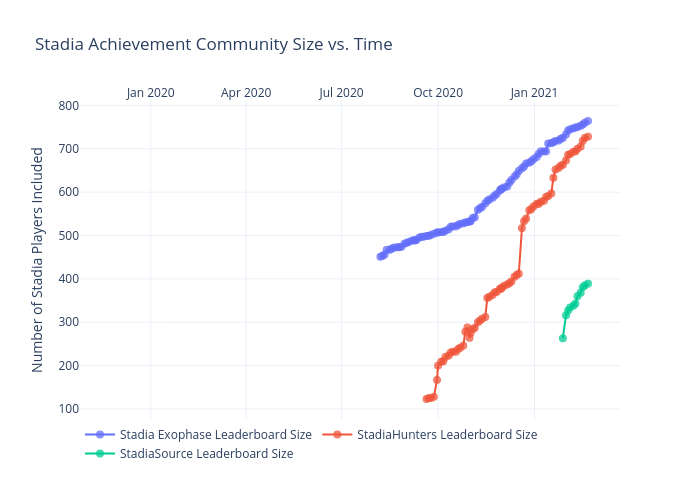
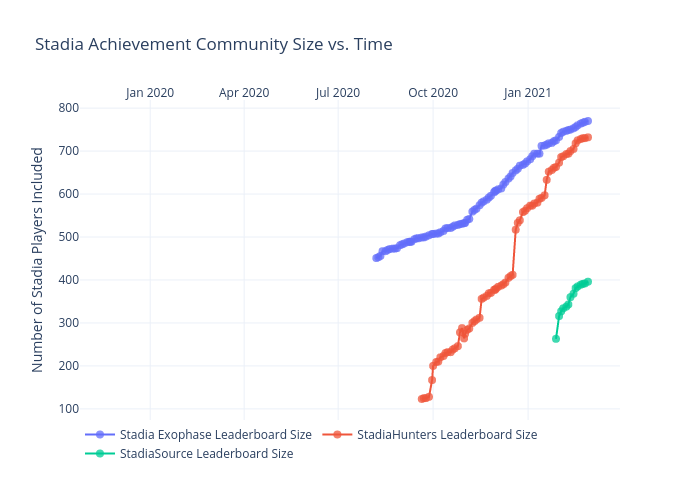
Add files via upload

diff --git a/achievements/figure.js b/achievements/figure.js
@@ -152,7 +152,9 @@ var figure = {
                 "2021-02-16",
                 "2021-02-18",
                 "2021-02-21",
-                "2021-02-23"
+                "2021-02-23",
+                "2021-02-25",
+                "2021-02-28"
             ],
             "ysrc": "jdeslip:382:613c2c",
             "y": [
@@ -295,7 +297,10 @@ var figure = {
                 "753",
                 "756",
                 "760",
-                "764"
+                "764",
+                "766",
+                "768",
+                "770"
             ],
             "marker": {
                 "size": 8,
@@ -457,7 +462,9 @@ var figure = {
                 "2021-02-16",
                 "2021-02-18",
                 "2021-02-21",
-                "2021-02-23"
+                "2021-02-23",
+                "2021-02-25",
+                "2021-02-28"
             ],
             "ysrc": "jdeslip:382:b533e0",
             "y": [
@@ -600,7 +607,10 @@ var figure = {
                 "705",
                 "718",
                 "725",
-                "728"
+                "728",
+                "730",
+                "730",
+                "732"
             ],
             "marker": {
                 "size": 8,
@@ -762,7 +772,9 @@ var figure = {
                 "2021-02-16",
                 "2021-02-18",
                 "2021-02-21",
-                "2021-02-23"
+                "2021-02-23",
+                "2021-02-25",
+                "2021-02-28"
             ],
             "ysrc": "jdeslip:382:05cfbe",
             "y": [
@@ -905,7 +917,10 @@ var figure = {
                 "368",
                 "381",
                 "385",
-                "389"
+                "389",
+                "391",
+                "392",
+                "396"
             ],
             "marker": {
                 "size": 8,
@@ -924,8 +939,8 @@ var figure = {
             "side": "top",
             "type": "date",
             "range": [
-                "2019-10-27 22:18:21.7504",
-                "2021-03-21 01:41:38.2496"
+                "2019-10-27 11:55:07.284",
+                "2021-03-28 12:04:52.716"
             ],
             "title": {
                 "text": ""
@@ -935,8 +950,8 @@ var figure = {
         "yaxis": {
             "type": "linear",
             "range": [
-                77.13518571839907,
-                809.864814281601
+                76.70587388424991,
+                816.29412611575
             ],
             "title": {
                 "text": "Number of Stadia Players Included"
